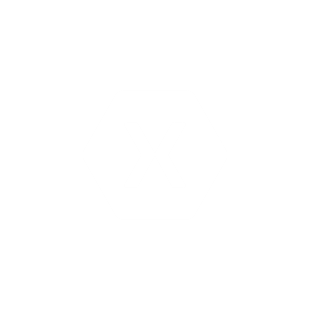
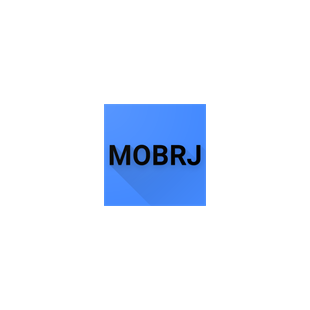
UWP assets

Changed region(s): [[0.3194, 0.3194, 0.6677, 0.6677]]

diff --git a/README.md b/README.md
@@ -12,7 +12,7 @@ http://ysft.me/mobrj-apk
 
 ### UWP
 The UWP version can be installed directly from the Microsoft Store using the following link:
-
+https://www.microsoft.com/store/r/9N8T6KNCTKX4
 
 ### iOS
 There isn't a precompiled iOS version available at this moment.
